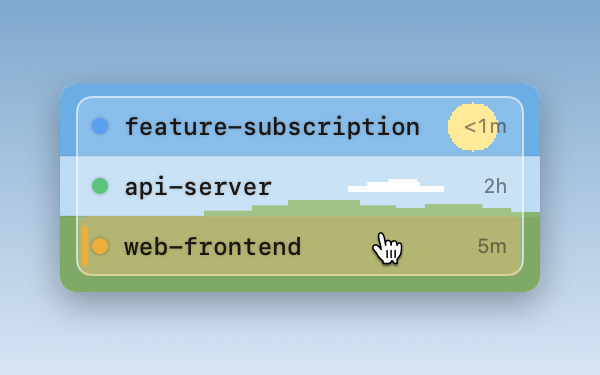
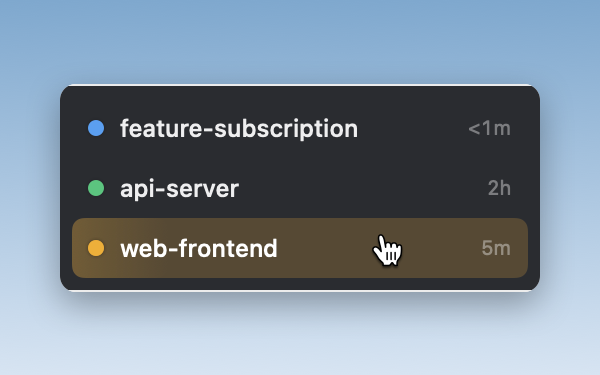
feat: LPをシンプルモード主軸に転換（ヒーロートグル・猫おまけセクション・スクショ刷新）

diff --git a/index.html b/index.html
@@ -403,6 +403,12 @@
       object-fit: contain;
     }
 
+    /* ── CAT BONUS: 幅を絞った2枚グリッド。カード自体は .feat-item を再利用。
+       機能グリッドより一段小ぶりにして「おまけ」の格を視覚的に伝える。 ── */
+    .cat-sec  { max-width: 640px; margin: 0 auto; padding: 0 32px 80px; }
+    .cat-grid { display: grid; grid-template-columns: 1fr 1fr; gap: 20px; align-items: start; }
+    @media (max-width: 480px) { .cat-grid { grid-template-columns: 1fr; } }
+
     /* ── PRICING ───────────────────────────────────────────── */
     .pricing-sec {
       background: var(--surf2);
@@ -717,13 +723,13 @@
     </div>
   </div>
 
-  <!-- RIGHT: pixel window + day/night toggle + status legend -->
+  <!-- RIGHT: pixel window + view-mode toggle + status legend -->
   <div class="hero-right">
     <div class="ss-toggle" role="group">
-      <button class="ss-btn active" id="ss-btn-day" onclick="showDay()"
-              data-en="☀ Day" data-ja="☀ 昼">☀ Day</button>
-      <button class="ss-btn" id="ss-btn-night" onclick="showNight()"
-              data-en="🌙 Night" data-ja="🌙 夜">🌙 Night</button>
+      <button class="ss-btn active" id="ss-btn-simple" onclick="showSimple()"
+              data-en="▦ Simple" data-ja="▦ シンプル">▦ Simple</button>
+      <button class="ss-btn" id="ss-btn-cat" onclick="showCat()"
+              data-en="🐱 Cat Room" data-ja="🐱 猫部屋">🐱 Cat Room</button>
     </div>
     <div class="px-window">
       <div class="px-titlebar">
@@ -735,8 +741,10 @@
         <span class="px-wintitle">AgentManager</span>
       </div>
       <div class="px-winbody">
-        <img id="ss-day"   src="screenshot-day.gif"   alt="AgentManager — day scene">
-        <img id="ss-night" src="screenshot-night.gif" alt="AgentManager — night scene" class="hidden">
+        <img id="ss-simple" src="screenshot-simple.png"
+             alt="AgentManager simple mode — a minimal dark list of Claude Code sessions with status dots and elapsed times">
+        <img id="ss-cat" src="screenshot-cat.gif"
+             alt="AgentManager cat room mode — pixel-art cats living below the session list" class="hidden">
       </div>
     </div>
     <!-- Status legend in context, directly below the screenshot -->
@@ -872,16 +880,31 @@
 
     <div class="feat-item feat-item--shot">
       <div class="feat-thumb">
-        <img class="feat-thumb-img" src="feature-catsound.gif" loading="lazy"
-             alt="A pixel-art cat meowing with music notes floating up">
+        <img class="feat-thumb-img" src="feature-modes.png" loading="lazy"
+             alt="The onboarding screen where you choose between Cat Room and Simple view modes">
       </div>
       <div class="feat-title">
-        <svg class="feat-px" viewBox="0 0 10 10"><rect width="10" height="10" fill="#F5A623"/></svg>
-        <h3 data-en="Cat sound alerts" data-ja="猫の鳴き声で通知">Cat sound alerts</h3>
+        <svg class="feat-px" viewBox="0 0 10 10"><rect width="10" height="10" fill="#A070D0"/></svg>
+        <h3 data-en="Choose your view" data-ja="表示モードを選べる">Choose your view</h3>
       </div>
-      <p data-en="A cat meow plays the moment a session needs your input. You'll hear it even when you're looking away. Prefer quiet? Mute it anytime in Settings — no Notification Center spam either way."
-         data-ja="セッションに確認が必要になると猫の鳴き声でお知らせ。画面を見ていなくても見逃しません。音が気になる場合は設定からいつでもミュートでき、通知センターは使いません。">A cat meow plays the moment a session needs your input. You'll hear it even when you're looking away. Prefer quiet? Mute it anytime in Settings — no Notification Center spam either way.</p>
+      <p data-en="Pick Simple or Cat Room during onboarding — and switch anytime in Settings. Same list, same shortcuts, same one-click jumps."
+         data-ja="初回セットアップでシンプル／猫部屋を選択。設定からいつでも切り替えられます。一覧・ショートカット・ワンクリックジャンプはどちらのモードでも同じです。">Pick Simple or Cat Room during onboarding — and switch anytime in Settings. Same list, same shortcuts, same one-click jumps.</p>
     </div>
+
+  </div>
+</section>
+
+<!-- BONUS: CAT ROOM MODE — 主機能ではなく「おまけの癒し」として独立させる -->
+<section class="cat-sec" id="cat-mode">
+  <div class="sec-head">
+    <span class="section-label"
+          data-en="Bonus: a cat room to keep you company"
+          data-ja="おまけ：癒しの猫部屋モード">Bonus: a cat room to keep you company</span>
+    <p class="sec-sub"
+       data-en="Prefer a little warmth while Claude works? Switch to Cat Room mode — the same session list, with pixel cats living beneath it."
+       data-ja="Claude の作業を見守る時間に、ちょっとした癒しを。猫部屋モードに切り替えると、同じセッション一覧の下でピクセルの猫たちが暮らします。">Prefer a little warmth while Claude works? Switch to Cat Room mode — the same session list, with pixel cats living beneath it.</p>
+  </div>
+  <div class="cat-grid">
 
     <div class="feat-item feat-item--shot">
       <div class="feat-thumb">
@@ -898,15 +921,15 @@
 
     <div class="feat-item feat-item--shot">
       <div class="feat-thumb">
-        <img class="feat-thumb-img" src="feature-simple.png" loading="lazy"
-             alt="Simple mode: a minimal list-only view of sessions without decorations">
+        <img class="feat-thumb-img" src="feature-catsound.gif" loading="lazy"
+             alt="A pixel-art cat meowing with music notes floating up">
       </div>
       <div class="feat-title">
-        <svg class="feat-px" viewBox="0 0 10 10"><rect width="10" height="10" fill="#A070D0"/></svg>
-        <h3 data-en="Simple mode" data-ja="シンプルモード">Simple mode</h3>
+        <svg class="feat-px" viewBox="0 0 10 10"><rect width="10" height="10" fill="#F5A623"/></svg>
+        <h3 data-en="Cat sound alerts" data-ja="猫の鳴き声で通知">Cat sound alerts</h3>
       </div>
-      <p data-en="Hide the cat and room decorations for a minimal, list-only view. Keyboard navigation and jump-to-terminal keep working just the same."
-         data-ja="猫や部屋の装飾を非表示にして、セッション一覧だけのミニマル表示に。キーボード操作もターミナル遷移もそのまま使えます。">Hide the cat and room decorations for a minimal, list-only view. Keyboard navigation and jump-to-terminal keep working just the same.</p>
+      <p data-en="A cat meow plays the moment a session needs your input. You'll hear it even when you're looking away. Prefer quiet? Mute it anytime in Settings — no Notification Center spam either way. The meow works in Simple mode too."
+         data-ja="セッションに確認が必要になると猫の鳴き声でお知らせ。画面を見ていなくても見逃しません。音が気になる場合は設定からいつでもミュートでき、通知センターは使いません。鳴き声はシンプルモードでも使えます。">A cat meow plays the moment a session needs your input. You'll hear it even when you're looking away. Prefer quiet? Mute it anytime in Settings — no Notification Center spam either way. The meow works in Simple mode too.</p>
     </div>
 
   </div>
@@ -1204,6 +1227,19 @@
       </details>
     </li>
 
+    <li class="faq-item">
+      <details>
+        <summary
+          data-en="Can I switch between Simple and Cat Room modes later?"
+          data-ja="シンプルモードと猫部屋モードは後から切り替えられますか？">Can I switch between Simple and Cat Room modes later?</summary>
+        <p class="faq-ans"
+           data-en="Yes. You choose a view during onboarding, and you can switch anytime in Settings. All features work the same in both modes."
+           data-ja="はい。初回セットアップで選んだ表示モードは、設定からいつでも変更できます。機能は両モードで共通です。">
+          Yes. You choose a view during onboarding, and you can switch anytime in Settings. All features work the same in both modes.
+        </p>
+      </details>
+    </li>
+
   </ul>
 </section>
 
@@ -1221,17 +1257,17 @@
 </footer>
 
 <script>
-  function showDay() {
-    document.getElementById('ss-day').classList.remove('hidden');
-    document.getElementById('ss-night').classList.add('hidden');
-    document.getElementById('ss-btn-day').classList.add('active');
-    document.getElementById('ss-btn-night').classList.remove('active');
+  function showSimple() {
+    document.getElementById('ss-simple').classList.remove('hidden');
+    document.getElementById('ss-cat').classList.add('hidden');
+    document.getElementById('ss-btn-simple').classList.add('active');
+    document.getElementById('ss-btn-cat').classList.remove('active');
   }
-  function showNight() {
-    document.getElementById('ss-night').classList.remove('hidden');
-    document.getElementById('ss-day').classList.add('hidden');
-    document.getElementById('ss-btn-night').classList.add('active');
-    document.getElementById('ss-btn-day').classList.remove('active');
+  function showCat() {
+    document.getElementById('ss-cat').classList.remove('hidden');
+    document.getElementById('ss-simple').classList.add('hidden');
+    document.getElementById('ss-btn-cat').classList.add('active');
+    document.getElementById('ss-btn-simple').classList.remove('active');
   }
 
   function setNavOpen(open) {
